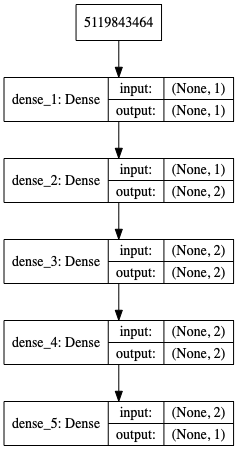
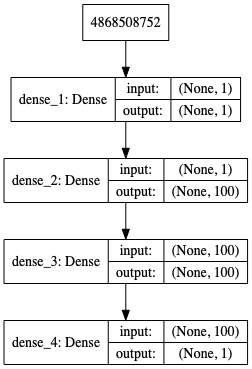
added data plotting and sin values

Changed region(s): [[0.0, 0.1491, 1.0, 1.0], [0.2941, 0.0, 0.7059, 0.1192]]

diff --git a/main.py b/main.py
@@ -3,26 +3,26 @@ from keras.optimizers import SGD;
 from keras.models import Sequential;
 from keras.layers import Dense;
 from keras.utils import plot_model;
+import matplotlib.pyplot as plt;
+import math
 import os;
 
 class Main:
-    listOfIn = [0,1,0,1,0,1,0,1,0,1,0,1,0,1,0,1,0,1,0,1,0,1,0,1,0,1,0,1,0,1,0,1,0,1,0,1,0,1,0,1,0,1,0,1,0,1,0,1,0,1,0,1,0,1,0,1,0,1,0,1,0,1,0,1,0,1,0,1,0,1,0,1];
-    listOfOut = [1,0,1,0,1,0,1,0,1,0,1,0,1,0,1,0,1,0,1,0,1,0,1,0,1,0,1,0,1,0,1,0,1,0,1,0,1,0,1,0,1,0,1,0,1,0,1,0,1,0,1,0,1,0,1,0,1,0,1,0,1,0,1,0,1,0,1,0,1,0,1,0];
+    listOfIn = [];
+    listOfOut = [];
     def __init__(self):
         #self.PrintFirst1000IntArray();
 
         print("test");
         self.createData();
-        print(self.a);
         self.model = Sequential();
 
-        self. model.add(Dense(units=1, activation='relu', input_shape=(1,) ))
+        self.model.add(Dense(units=1, activation='sigmoid', input_shape=(1,) ))
         
-        self.model.add(Dense(units=2, activation='relu'))
-        self.model.add(Dense(units=2, activation='relu'))
-        self.model.add(Dense(units=2, activation='relu'))
+        self.model.add(Dense(units=100, activation='sigmoid'))
+        self.model.add(Dense(units=100, activation='sigmoid'))
 
-        self.model.add(Dense(units=1, activation='softmax' ) )
+        self.model.add(Dense(units=1, activation='sigmoid' ) )
 
         sgdOptimizer = SGD(lr=0.001, momentum=0.0, nesterov=False)
 
@@ -57,31 +57,50 @@ class Main:
                     ask2 = input("Value: ");
                     if(ask2 == 'q'):
                         break;
-                    print(self.predict(ask));
+                    print(self.predict(ask2));
             if ask == 4:
                 plot_model(self.model, 'model.png', show_shapes=True, show_layer_names=True);
                 os.system("open model.png");
                 print("saved model to model.png");
 
+            if ask == 5:
+                self.plotData();
+
             if ask == 'q':
                 break;
+
                 
         
 
     def createData(self):
-        self.a = np.array([2,3,4,5]);
+        for i in range(1,90):
+            self.listOfIn.append(i);
+            self.listOfOut.append(math.sin(i* (math.pi/180) ));
+            
         
     def train(self):
 
         listOfNum = np.array(self.listOfIn);
-        self.model.fit(listOfNum, np.array(self.listOfOut), epochs=5, batch_size=1);
+        self.model.fit(listOfNum, np.array(self.listOfOut), epochs=50, batch_size=1);
+
+        print(self.model.evaluate(np.array(self.listOfIn), np.array(self.listOfOut)));
+        
                 
+    def plotData(self):
+        plt.plot(self.listOfIn, self.listOfOut);
+        modelOutput = self.model.predict(self.listOfIn, batch_size=1);
+        plt.plot(self.listOfIn, modelOutput);
+
+        plt.show();
+
+
     def predict(self, value):
         #num = [int(x) for x in bin(value)[2:] ]  # this is to convert the number in to binary
         predictInput = np.array([value]);
+        print(self.listOfIn);
+        print(self.listOfOut);
 
         #predictInput.reshape(1,);#this is to reshapee so it does not give errror about dense layer neeidng 2
-        print(predictInput.shape);
 
         predictions = self.model.predict(predictInput, batch_size=1) # batch size is how many it does at once
 
